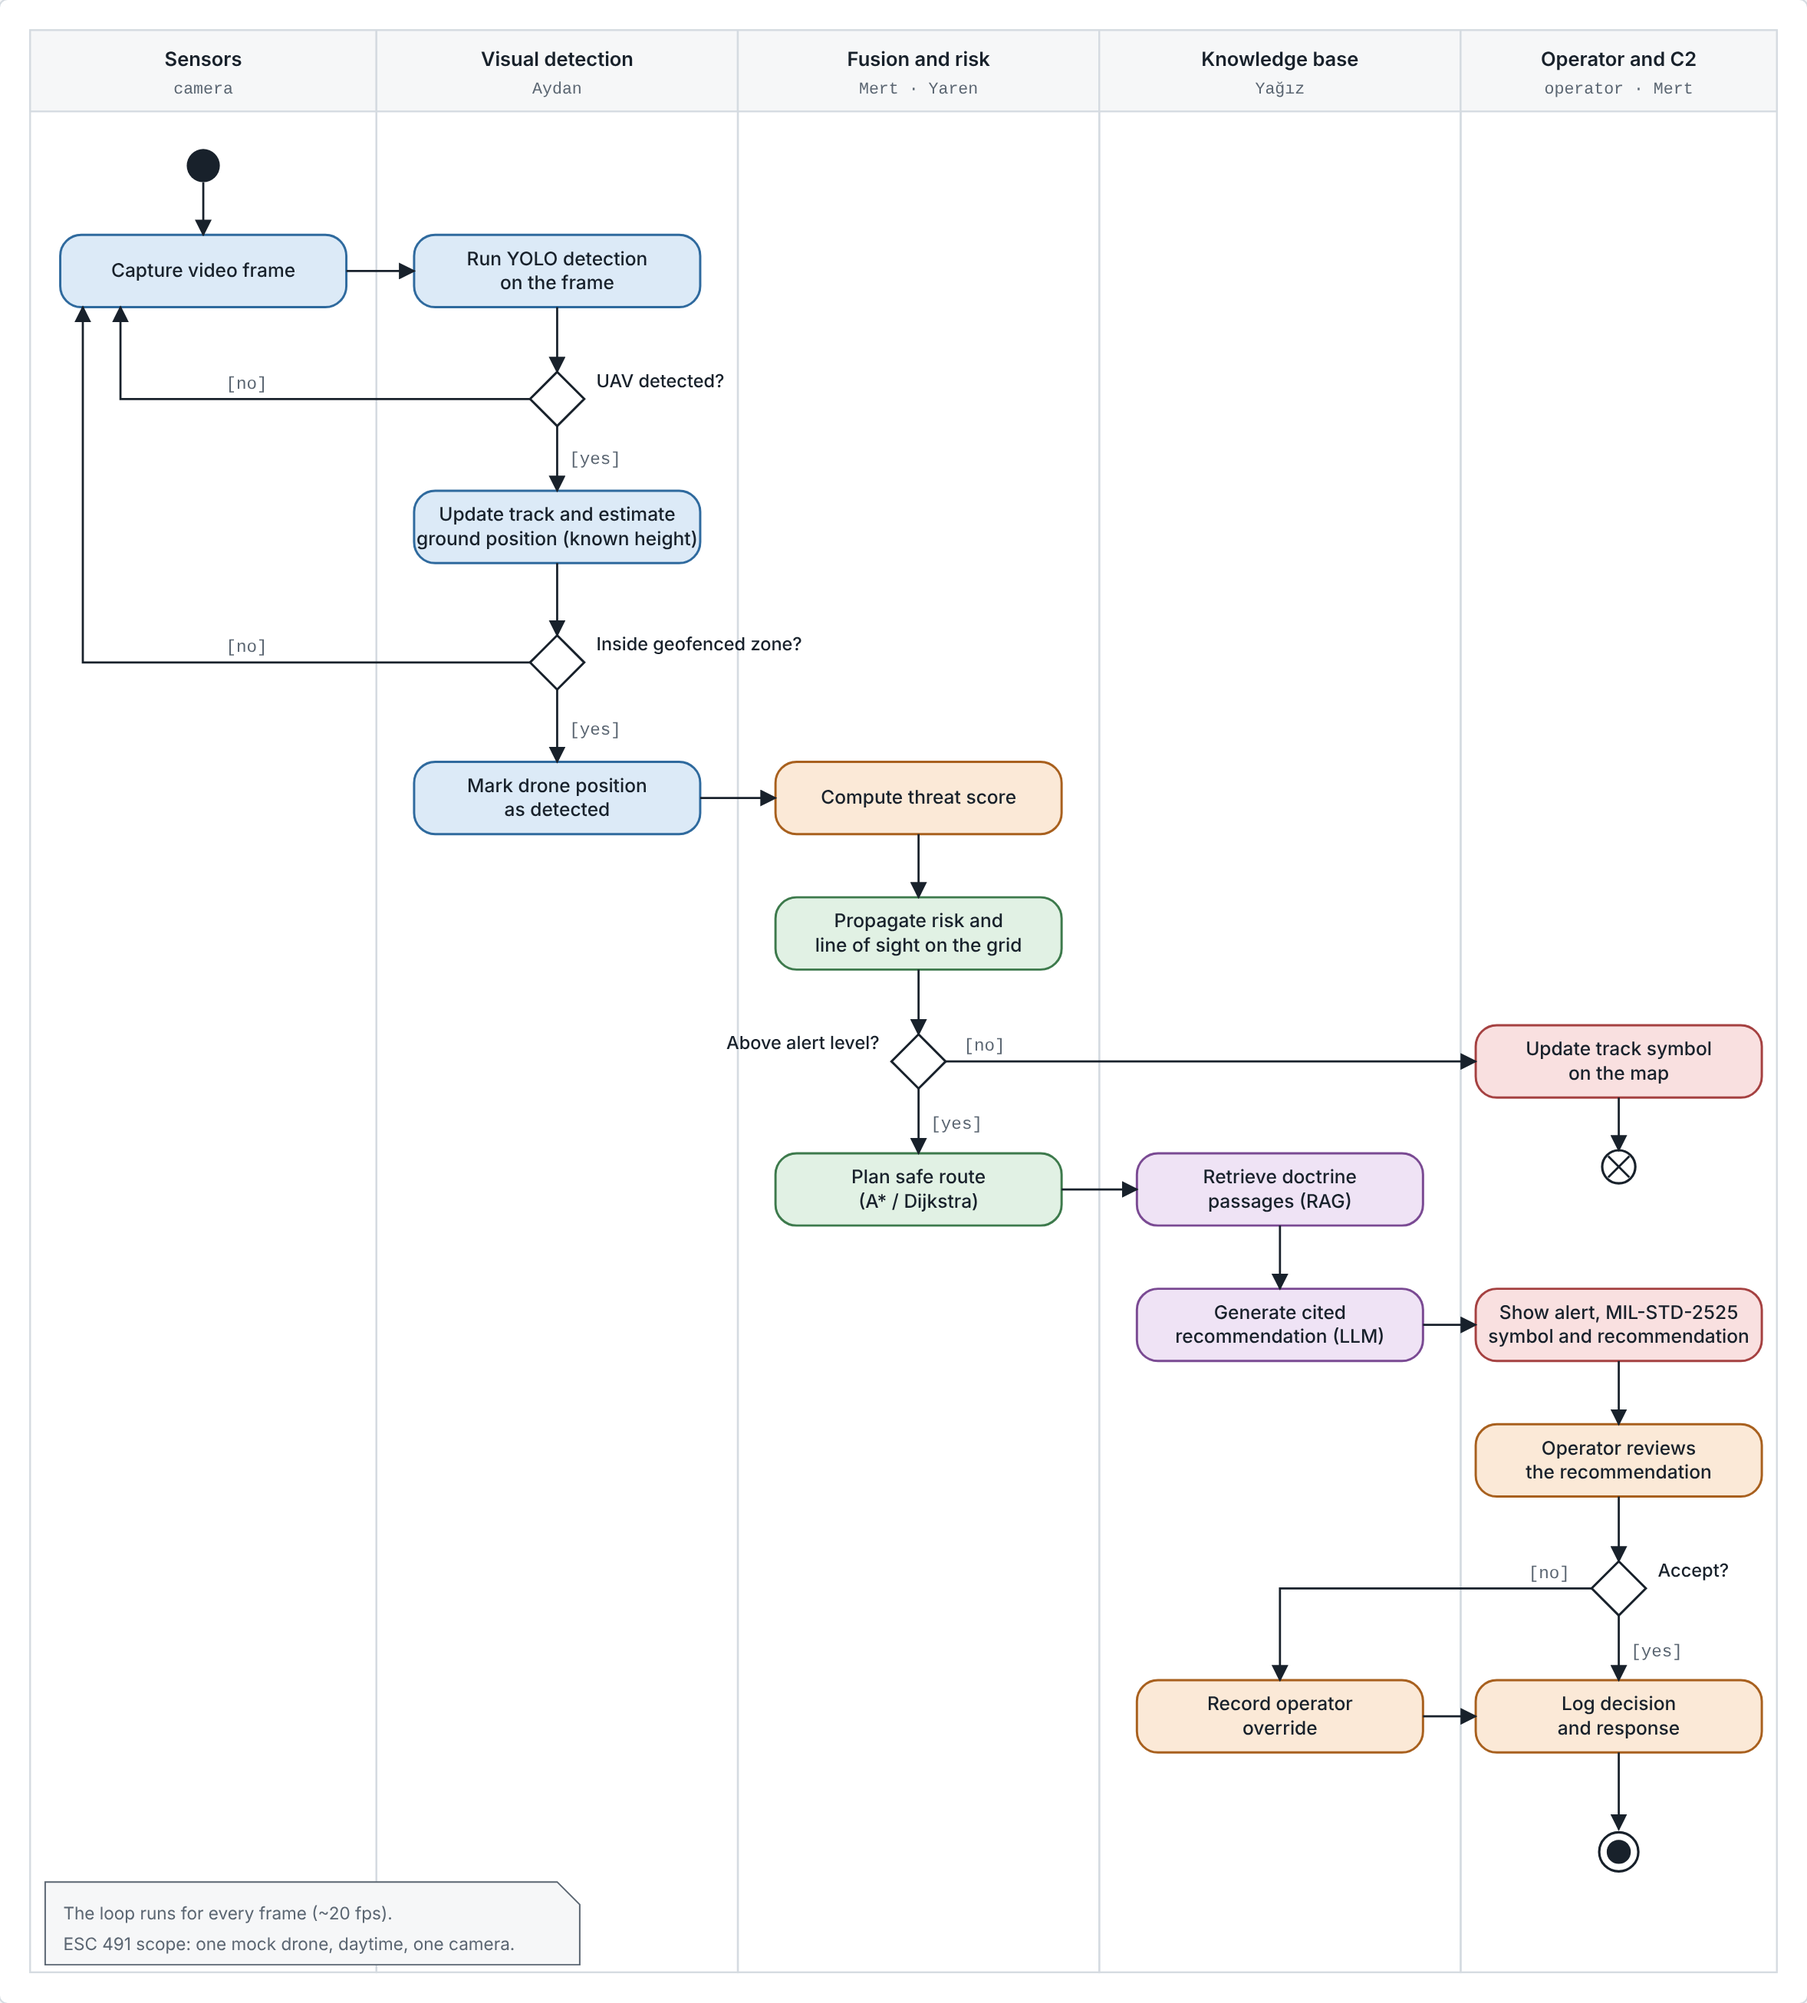
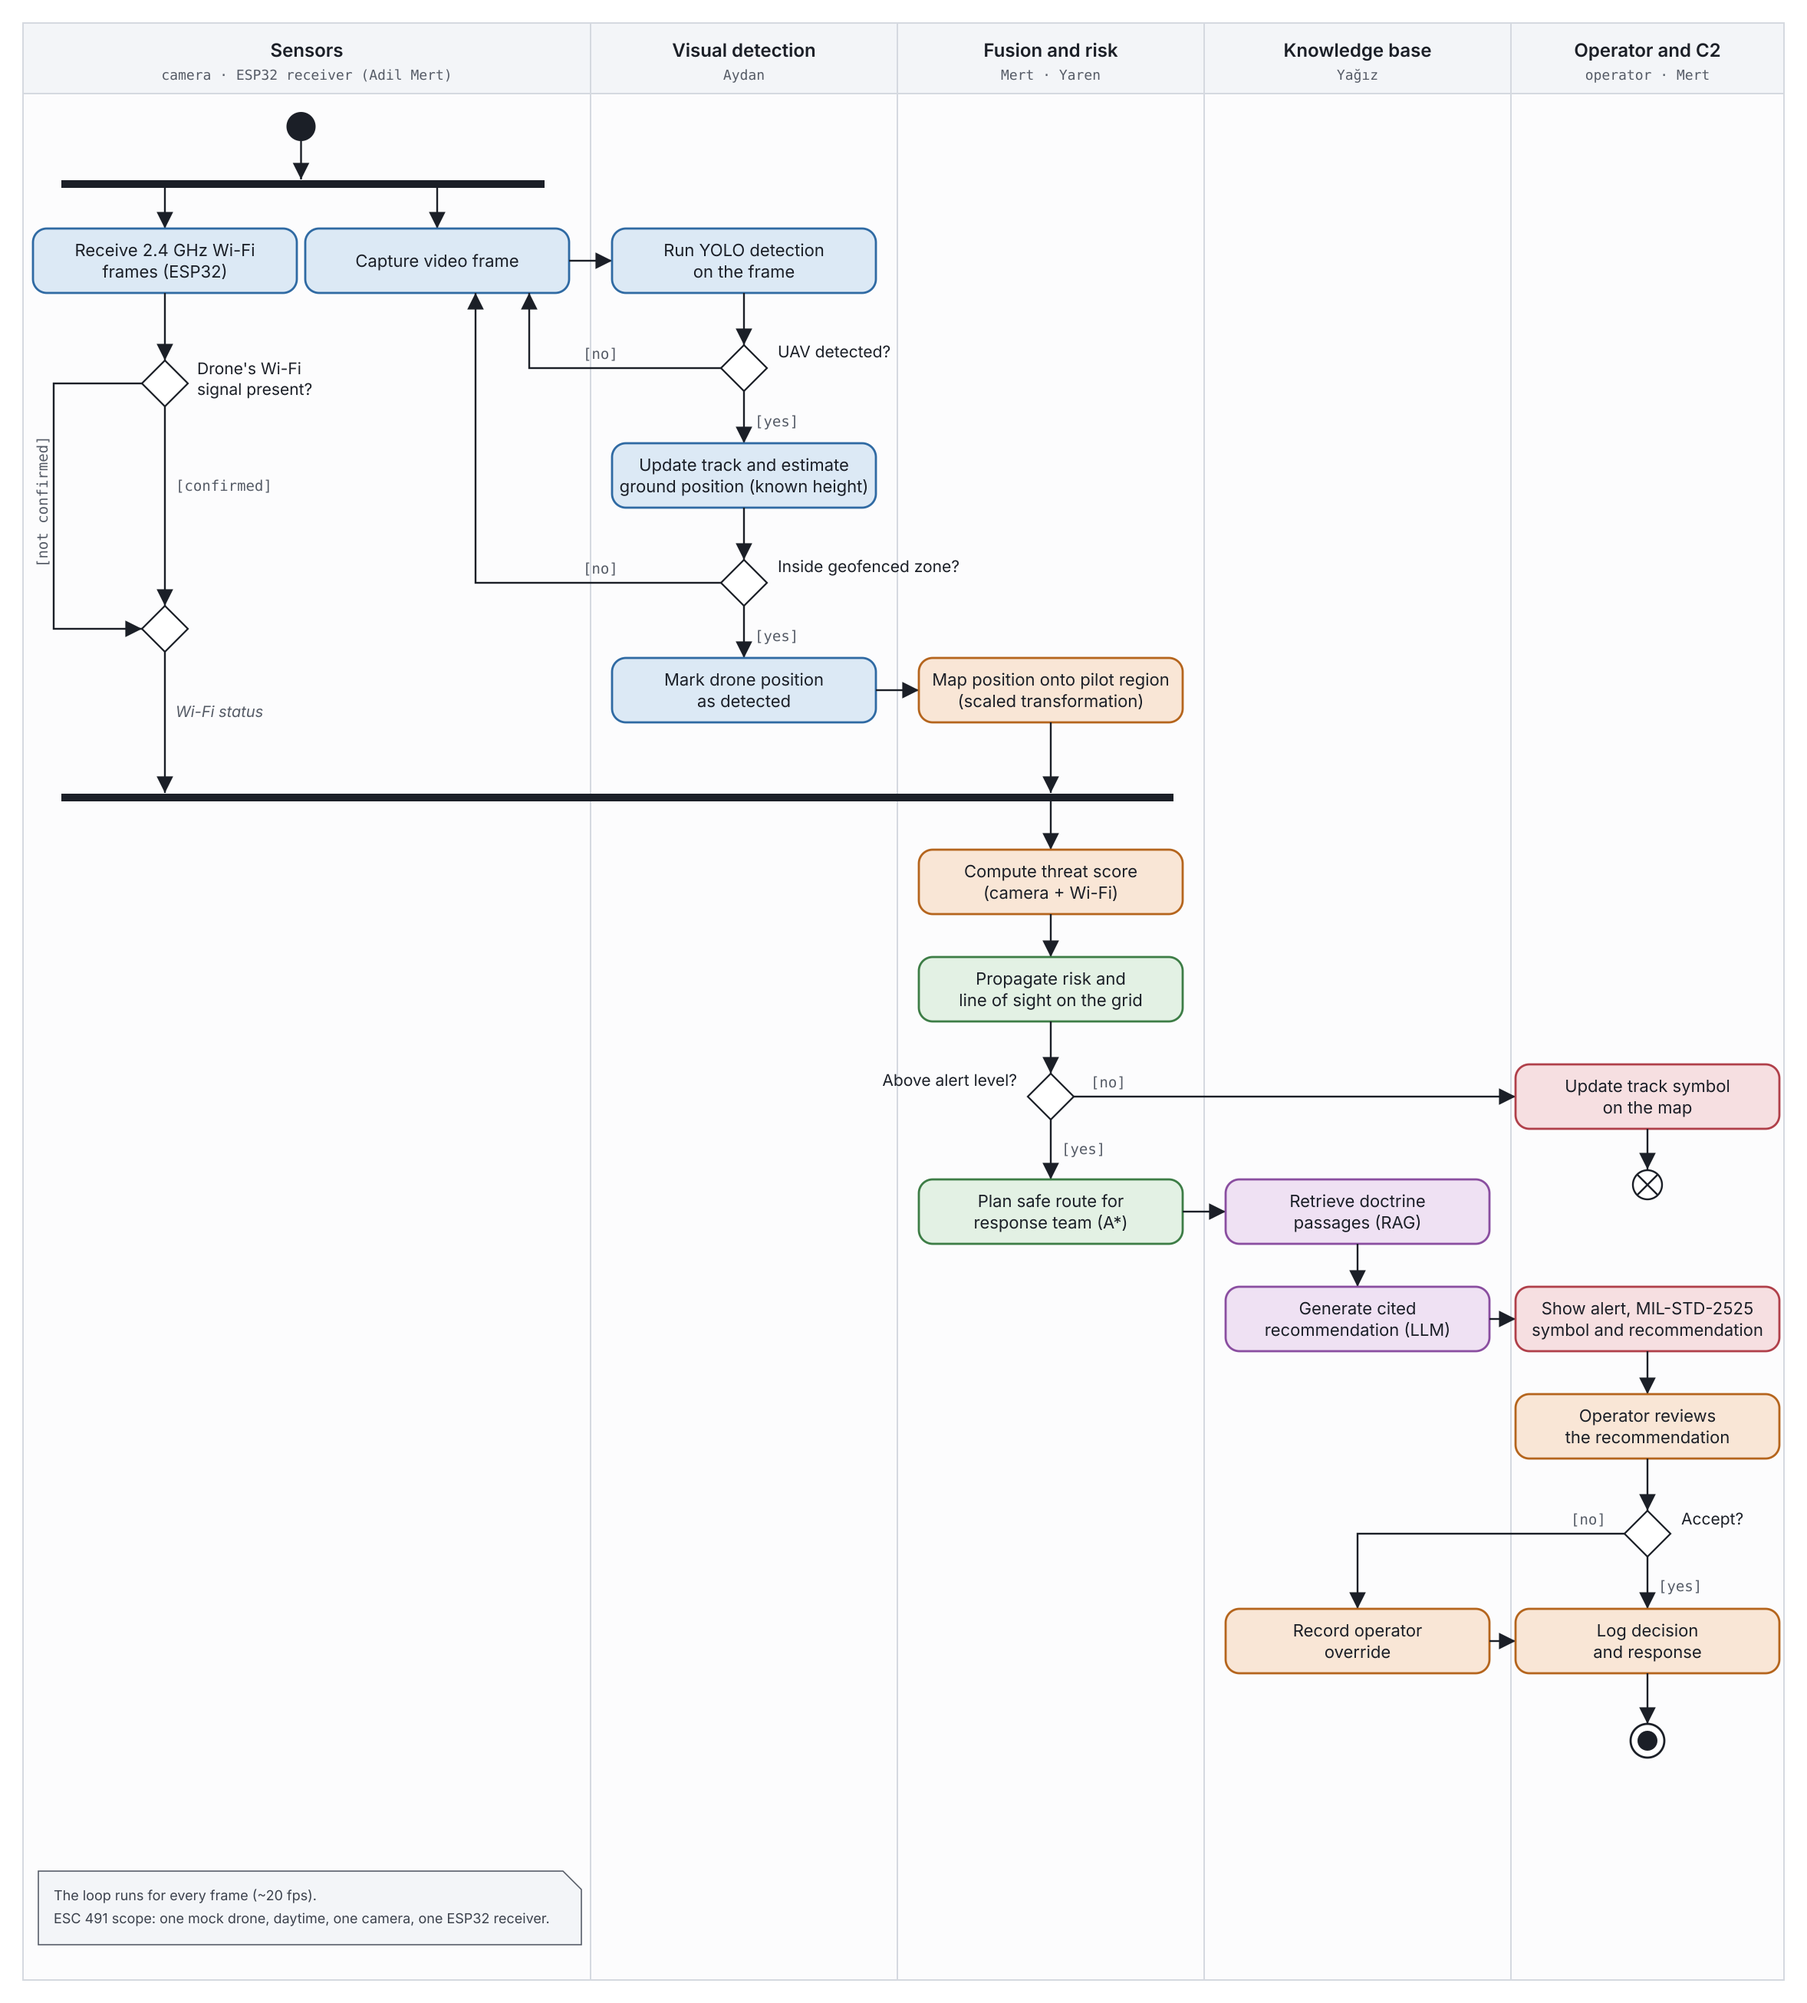
System Design: activity diagram with Wi-Fi confirmation and pilot-region mapping
Redraw Figure 6.2 so that it matches the 6.2 "Processing flow" text:
- fork after start: camera path and ESP32 2.4 GHz Wi-Fi path run in parallel
- Wi-Fi decision with [confirmed] / [not confirmed], carried as Wi-Fi status
- "Map position onto pilot region (scaled transformation)" after detection
- join before "Compute threat score (camera + Wi-Fi)"
- "Plan safe route for response team (A*)"; note mentions one ESP32 receiver

Same PNG in the section folder, docs/progress-report/figures and
docs/diagrams (old jpeg removed). SVG source and the generating script
are committed next to the section copy.

Claude-Session: https://claude.ai/code/session_01LzFTLkhR1hAkni2i5YvxJK

diff --git a/docs/progress-report/06-System Design-Aydan Doğan/activity-diagram.py b/docs/progress-report/06-System Design-Aydan Doğan/activity-diagram.py
@@ -1,0 +1,157 @@
+"""ESC 491 activity diagram: camera path and ESP32 Wi-Fi path in parallel,
+joined before the threat score. Matches Section 6.2 'Processing flow'."""
+import sys
+
+W, H = 2356, 2612
+out = []
+add = out.append
+
+C = {
+    "blue": ("#dce9f5", "#2f6aa3"),
+    "orange": ("#f9e6d6", "#b5651d"),
+    "green": ("#e3f1e4", "#3d7d46"),
+    "purple": ("#efe1f3", "#8a4ea0"),
+    "red": ("#f6dfe1", "#b0404a"),
+}
+BW, BH = 344, 84
+INK = "#1b1f27"
+GREY = "#555b66"
+FONT = "Inter, DejaVu Sans, sans-serif"
+MONO = "DejaVu Sans Mono, monospace"
+R = 30  # diamond half-size
+
+add(f'<svg xmlns="http://www.w3.org/2000/svg" width="{W}" height="{H}" viewBox="0 0 {W} {H}">')
+add('<defs><marker id="a" viewBox="0 0 10 10" refX="10" refY="5" markerWidth="9" markerHeight="9" '
+    f'orient="auto-start-reverse"><path d="M0,0 L10,5 L0,10 z" fill="{INK}"/></marker></defs>')
+add(f'<rect width="{W}" height="{H}" fill="#ffffff"/>')
+
+lanes = [(30, 770, "Sensors", "camera · ESP32 receiver (Adil Mert)"),
+         (770, 1170, "Visual detection", "Aydan"),
+         (1170, 1570, "Fusion and risk", "Mert · Yaren"),
+         (1570, 1970, "Knowledge base", "Yağız"),
+         (1970, 2326, "Operator and C2", "operator · Mert")]
+TOP, BOT = 30, H - 30
+add(f'<rect x="30" y="{TOP}" width="{W-60}" height="{BOT-TOP}" fill="#fcfcfd" stroke="#d5d9e0" stroke-width="2"/>')
+add(f'<rect x="30" y="{TOP}" width="{W-60}" height="92" fill="#f3f5f8" stroke="#d5d9e0" stroke-width="2"/>')
+for x0, x1, title, sub in lanes:
+    cx = (x0 + x1) / 2
+    if x0 > 30:
+        add(f'<line x1="{x0}" y1="{TOP}" x2="{x0}" y2="{BOT}" stroke="#d5d9e0" stroke-width="2"/>')
+    add(f'<text x="{cx}" y="74" text-anchor="middle" font-family="{FONT}" font-size="24" font-weight="600" fill="{INK}">{title}</text>')
+    add(f'<text x="{cx}" y="104" text-anchor="middle" font-family="{MONO}" font-size="18" fill="{GREY}">{sub}</text>')
+
+
+def box(cx, cy, lines, color):
+    fill, stroke = C[color]
+    add(f'<rect x="{cx-BW/2}" y="{cy-BH/2}" width="{BW}" height="{BH}" rx="18" fill="{fill}" stroke="{stroke}" stroke-width="2.8"/>')
+    n = len(lines)
+    for i, t in enumerate(lines):
+        y = cy + (i - (n - 1) / 2) * 28 + 8
+        add(f'<text x="{cx}" y="{y}" text-anchor="middle" font-family="{FONT}" font-size="22" fill="{INK}">{t}</text>')
+
+
+def diamond(cx, cy, label_lines=(), lx=None, ly=None, anchor="start"):
+    add(f'<polygon points="{cx},{cy-R} {cx+R},{cy} {cx},{cy+R} {cx-R},{cy}" fill="#ffffff" stroke="{INK}" stroke-width="2.2"/>')
+    for i, t in enumerate(label_lines):
+        add(f'<text x="{lx}" y="{ly+i*27}" text-anchor="{anchor}" font-family="{FONT}" font-size="21" fill="{INK}">{t}</text>')
+
+
+def path(pts, label=None, lpos=None, rotate=False):
+    d = "M" + " L".join(f"{x},{y}" for x, y in pts)
+    add(f'<path d="{d}" fill="none" stroke="{INK}" stroke-width="2.4" marker-end="url(#a)"/>')
+    if label:
+        lx, ly = lpos
+        rot = f' transform="rotate(-90 {lx} {ly})"' if rotate else ""
+        add(f'<text x="{lx}" y="{ly}"{rot} font-family="{MONO}" font-size="19" fill="{GREY}">{label}</text>')
+
+
+def bar(y, x0, x1):
+    add(f'<rect x="{x0}" y="{y-5}" width="{x1-x0}" height="10" fill="{INK}"/>')
+
+
+SW, SC = 215, 570          # Sensors lane: Wi-Fi column, camera column
+V, F, K, O = 970, 1370, 1770, 2148
+h = BH / 2
+
+# start + fork
+add(f'<circle cx="{(SW+SC)/2}" cy="165" r="19" fill="{INK}"/>')
+FORK = 240
+path([((SW + SC) / 2, 184), ((SW + SC) / 2, FORK - 6)])
+bar(FORK, 80, 710)
+path([(SC, FORK + 5), (SC, 340 - h)])
+path([(SW, FORK + 5), (SW, 340 - h)])
+
+# camera path
+box(SC, 340, ["Capture video frame"], "blue")
+path([(SC + BW / 2, 340), (V - BW / 2, 340)])
+box(V, 340, ["Run YOLO detection", "on the frame"], "blue")
+path([(V, 340 + h), (V, 480 - R)])
+diamond(V, 480, ["UAV detected?"], V + 44, 466)
+path([(V - R, 480), (690, 480), (690, 340 + h)], "[no]", (760, 468))
+path([(V, 480 + R), (V, 620 - h)], "[yes]", (V + 14, 556))
+box(V, 620, ["Update track and estimate", "ground position (known height)"], "blue")
+path([(V, 620 + h), (V, 760 - R)])
+diamond(V, 760, ["Inside geofenced zone?"], V + 44, 746)
+path([(V - R, 760), (620, 760), (620, 340 + h)], "[no]", (760, 748))
+path([(V, 760 + R), (V, 900 - h)], "[yes]", (V + 14, 836))
+box(V, 900, ["Mark drone position", "as detected"], "blue")
+path([(V + BW / 2, 900), (F - BW / 2, 900)])
+box(F, 900, ["Map position onto pilot region", "(scaled transformation)"], "orange")
+
+# Wi-Fi path
+box(SW, 340, ["Receive 2.4 GHz Wi-Fi", "frames (ESP32)"], "blue")
+path([(SW, 340 + h), (SW, 500 - R)])
+diamond(SW, 500, ["Drone's Wi-Fi", "signal present?"], SW + 42, 488)
+path([(SW, 500 + R), (SW, 820 - R)], "[confirmed]", (SW + 14, 640))
+path([(SW - R, 500), (70, 500), (70, 820), (SW - R, 820)], "[not confirmed]", (62, 740), rotate=True)
+diamond(SW, 820)  # merge node
+JOIN = 1040
+path([(SW, 820 + R), (SW, JOIN - 6)])
+add(f'<text x="{SW+14}" y="{935}" font-family="{FONT}" font-size="20" font-style="italic" fill="{GREY}">Wi-Fi status</text>')
+
+# join
+bar(JOIN, 80, 1530)
+path([(F, 900 + h), (F, JOIN - 6)])
+path([(F, JOIN + 5), (F, 1150 - h)])
+
+box(F, 1150, ["Compute threat score", "(camera + Wi-Fi)"], "orange")
+path([(F, 1150 + h), (F, 1290 - h)])
+box(F, 1290, ["Propagate risk and", "line of sight on the grid"], "green")
+path([(F, 1290 + h), (F, 1430 - R)])
+diamond(F, 1430, ["Above alert level?"], F - 44, 1416, anchor="end")
+path([(F + R, 1430), (O - BW / 2, 1430)], "[no]", (F + 52, 1418))
+box(O, 1430, ["Update track symbol", "on the map"], "red")
+path([(O, 1430 + h), (O, 1545 - 20)])
+add(f'<circle cx="{O}" cy="1545" r="19" fill="#ffffff" stroke="{INK}" stroke-width="2.4"/>')
+add(f'<path d="M{O-13},{1545-13} L{O+13},{1545+13} M{O-13},{1545+13} L{O+13},{1545-13}" stroke="{INK}" stroke-width="2.4"/>')
+
+path([(F, 1430 + R), (F, 1580 - h)], "[yes]", (F + 14, 1505))
+box(F, 1580, ["Plan safe route for", "response team (A*)"], "green")
+path([(F + BW / 2, 1580), (K - BW / 2, 1580)])
+box(K, 1580, ["Retrieve doctrine", "passages (RAG)"], "purple")
+path([(K, 1580 + h), (K, 1720 - h)])
+box(K, 1720, ["Generate cited", "recommendation (LLM)"], "purple")
+path([(K + BW / 2, 1720), (O - BW / 2, 1720)])
+box(O, 1720, ["Show alert, MIL-STD-2525", "symbol and recommendation"], "red")
+path([(O, 1720 + h), (O, 1860 - h)])
+box(O, 1860, ["Operator reviews", "the recommendation"], "orange")
+path([(O, 1860 + h), (O, 2000 - R)])
+diamond(O, 2000, ["Accept?"], O + 44, 1988)
+path([(O - R, 2000), (K, 2000), (K, 2140 - h)], "[no]", (O - 100, 1988))
+path([(O, 2000 + R), (O, 2140 - h)], "[yes]", (O + 14, 2075))
+box(K, 2140, ["Record operator", "override"], "orange")
+path([(K + BW / 2, 2140), (O - BW / 2, 2140)])
+box(O, 2140, ["Log decision", "and response"], "orange")
+path([(O, 2140 + h), (O, 2270 - 22)])
+add(f'<circle cx="{O}" cy="2270" r="22" fill="#ffffff" stroke="{INK}" stroke-width="2.8"/>')
+add(f'<circle cx="{O}" cy="2270" r="13" fill="{INK}"/>')
+
+# note
+nx, ny, nw, nh = 50, 2440, 708, 96
+add(f'<path d="M{nx},{ny} L{nx+nw-24},{ny} L{nx+nw},{ny+24} L{nx+nw},{ny+nh} L{nx},{ny+nh} z" fill="#f3f5f8" stroke="{GREY}" stroke-width="1.6"/>')
+for i, t in enumerate(["The loop runs for every frame (~20 fps).",
+                       "ESC 491 scope: one mock drone, daytime, one camera, one ESP32 receiver."]):
+    add(f'<text x="{nx+20}" y="{ny+38+i*30}" font-family="{FONT}" font-size="18" fill="#3b414c">{t}</text>')
+
+add("</svg>")
+open(sys.argv[1], "w").write("\n".join(out))
